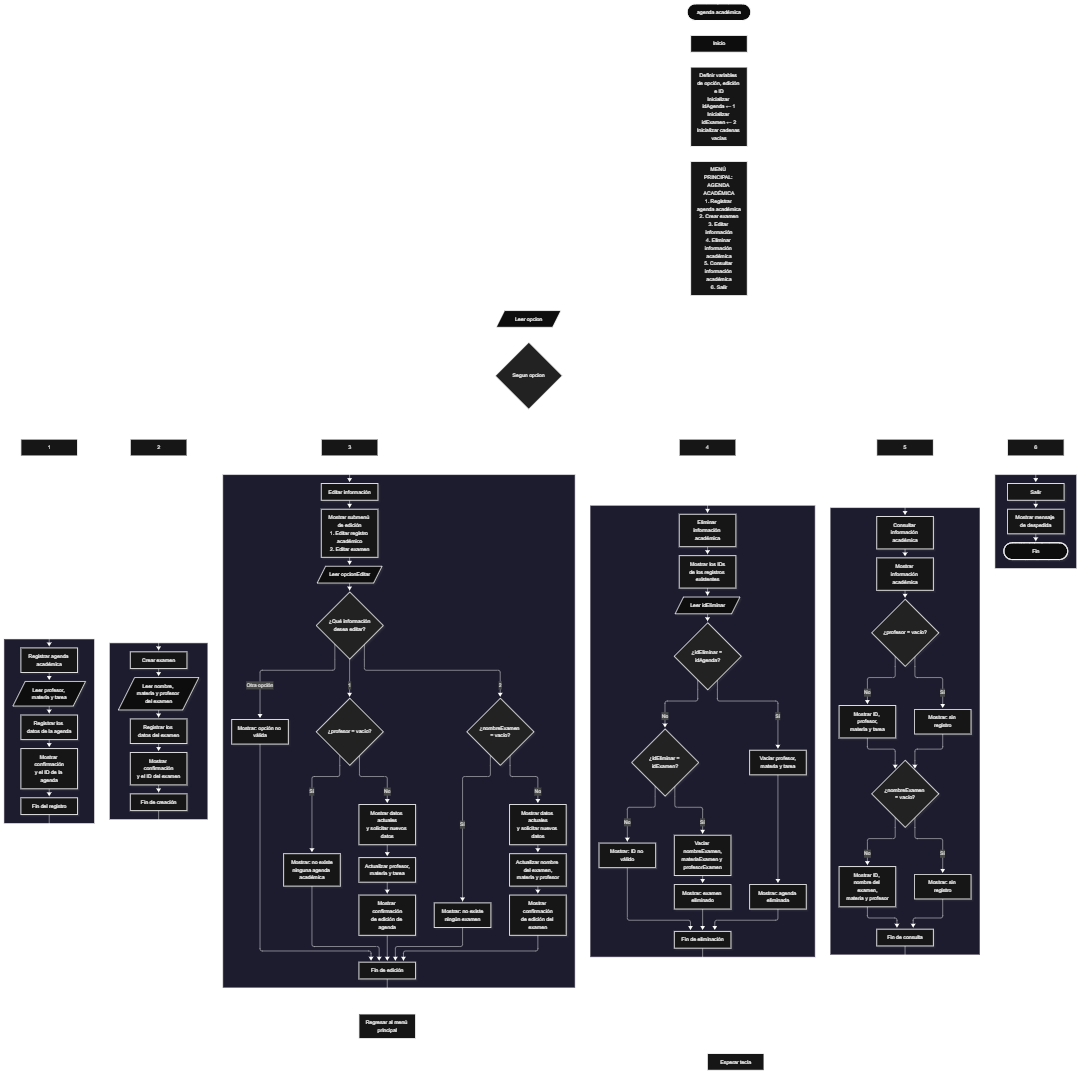
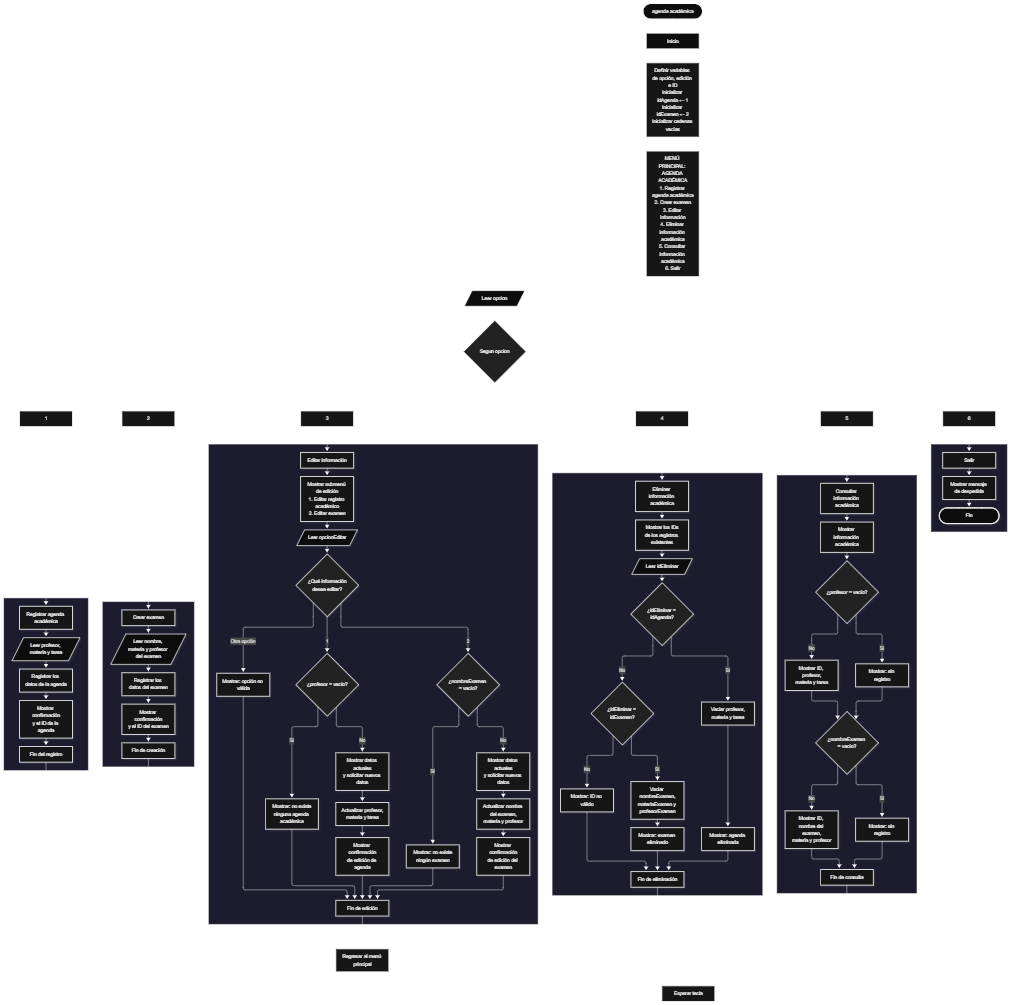
agregando_contenido_al_repositorio

diff --git a/README.md b/README.md
@@ -1,28 +1,28 @@
 <img width="100%" src="https://capsule-render.vercel.app/api?type=waving&color=0:007ACC,100:5DADE2&height=260&section=header&text=Agenda%20Academica&desc=Bienvenidos%20usuarios%20a%20mi%20proyecto&fontSize=43&fontColor=ffffff&descSize=18&fontAlignY=38&descAlignY=58&animation=fadeIn"/>
 
-<p align="justify">Este proyecto, llamado <b>agenda académica</b>, fue desarrollado en <b>PSeInt</b> como un ejercicio práctico para fortalecer la lógica de programación mediante la creación de un sistema de gestión académica desde la consola. El programa cuenta con un menú principal de seis opciones que permite <b>registrar una agenda académica, crear exámenes, editar información, eliminar registros, consultar información académica y salir del sistema</b>. La agenda académica almacena el nombre del profesor, la materia y la tarea, mientras que el examen guarda su nombre, la materia correspondiente y el profesor encargado. Cada tipo de registro utiliza un identificador fijo para distinguir la agenda académica del examen. Durante su desarrollo se aplicaron conceptos fundamentales de programación, como variables, cadenas de texto, estructuras condicionales, ciclos repetitivos y estructuras de selección. Este proyecto permite poner en práctica los conocimientos adquiridos en PSeInt y sirve como base para desarrollar sistemas de gestión académica más avanzados utilizando otros lenguajes y tecnologías.</p>
+<p align="justify">Este proyecto, llamado <b>agenda académica</b>, fue desarrollado en <b>pseint</b> como un ejercicio práctico para fortalecer la lógica de programación mediante la creación de un sistema de gestión académica desde la consola. El programa cuenta con un menú principal de seis opciones que permite <b>registrar una agenda académica, crear exámenes, editar información, eliminar registros, consultar información académica y salir del sistema</b>. La agenda académica almacena el nombre del profesor, la materia y la tarea, mientras que el examen guarda su nombre, la materia correspondiente y el profesor encargado. Cada tipo de registro utiliza un identificador fijo para distinguir la agenda académica del examen. Durante su desarrollo se aplicaron conceptos fundamentales de programación, como variables, cadenas de texto, estructuras condicionales, ciclos repetitivos y estructuras de selección. Este proyecto permite poner en práctica los conocimientos adquiridos en PSeInt y sirve como base para desarrollar sistemas de gestión académica más avanzados utilizando otros lenguajes y tecnologías.</p>
 
 <h2 align="center">⚙ Funcionamiento del menú principal</h2>
 
 ### ➕ Registrar agenda académica
 
-<p align="justify">La opción <b>1) registrar agenda académica</b> permite almacenar la información de una agenda académica dentro del programa. Para realizar el registro, el sistema solicita al usuario el <b>nombre del profesor, la materia y la tarea</b>. Los datos introducidos se guardan en las variables <b>profesor, materia y tarea</b>, respectivamente. Después de completar el proceso, el programa muestra el mensaje <b>"agenda academica registrada correctamente."</b> y presenta el identificador asignado mediante la variable <b>idAgenda</b>, cuyo valor inicial es <b>1</b>. En el código actual se utiliza un único conjunto de variables para almacenar la agenda académica, por lo que, si se realiza otro registro, la información anterior se sustituye por los nuevos datos. El programa no cuenta con una estructura que permita almacenar múltiples agendas de manera independiente.</p>
+<p align="justify">La opción <b>1) registrar agenda académica</b> permite almacenar la información de una agenda académica dentro del programa. Para realizar el registro, el sistema solicita al usuario el <b>nombre del profesor, la materia y la tarea</b>. Los datos introducidos se guardan en las variables <b>profesor, materia y tarea</b>, respectivamente. Después de completar el proceso, el programa muestra el mensaje <b>"agenda academica registrada correctamente."</b> y presenta el identificador asignado mediante la variable <b>idagenda</b>, cuyo valor inicial es <b>1</b>. En el código actual se utiliza un único conjunto de variables para almacenar la agenda académica, por lo que, si se realiza otro registro, la información anterior se sustituye por los nuevos datos. El programa no cuenta con una estructura que permita almacenar múltiples agendas de manera independiente.</p>
 
 ### 📝 Crear examen
 
-<p align="justify">La opción <b>2) crear examen</b> permite registrar la información de un examen académico. Primero, el programa solicita el <b>nombre del examen, la materia del examen y el profesor encargado</b>. Los datos se almacenan en las variables <b>nombreExamen, materiaExamen y profesorExamen</b>. Una vez introducida la información, el sistema muestra el mensaje <b>"examen registrado correctamente."</b> y presenta el identificador asignado mediante la variable <b>idExamen</b>, cuyo valor inicial es <b>2</b>. Al igual que sucede con la agenda académica, el programa utiliza un único conjunto de variables para guardar la información del examen. Por este motivo, cuando se crea otro examen, los datos almacenados anteriormente se reemplazan. El código actual no implementa arreglos ni un sistema de almacenamiento que permita administrar varios exámenes simultáneamente.</p>
+<p align="justify">La opción <b>2) crear examen</b> permite registrar la información de un examen académico. Primero, el programa solicita el <b>nombre del examen, la materia del examen y el profesor encargado</b>. Los datos se almacenan en las variables <b>nombreexamen, materiaexamen y profesorexamen</b>. Una vez introducida la información, el sistema muestra el mensaje <b>"examen registrado correctamente."</b> y presenta el identificador asignado mediante la variable <b>idexamen</b>, cuyo valor inicial es <b>2</b>. Al igual que sucede con la agenda académica, el programa utiliza un único conjunto de variables para guardar la información del examen. Por este motivo, cuando se crea otro examen, los datos almacenados anteriormente se reemplazan. El código actual no implementa arreglos ni un sistema de almacenamiento que permita administrar varios exámenes simultáneamente.</p>
 
 ### ✏ Editar información
 
-<p align="justify">La opción <b>3) editar información</b> permite modificar los datos almacenados en la agenda académica o en el examen. Al seleccionar esta opción, el programa presenta un submenú con dos alternativas: <b>1) editar registro académico</b> y <b>2) editar examen</b>. Si el usuario selecciona la primera opción, el sistema comprueba si la variable <b>profesor</b> está vacía. Cuando no existe información registrada, muestra el mensaje <b>"no existe ninguna agenda academica."</b>. Si existe una agenda, presenta los valores actuales del profesor, la materia y la tarea, y solicita los nuevos datos para actualizar las variables correspondientes. Si el usuario selecciona la segunda opción, el programa realiza una comprobación similar mediante la variable <b>nombreExamen</b>. Cuando no existe ningún examen, muestra el mensaje <b>"no existe ningun examen."</b>. En caso contrario, permite modificar el nombre del examen, la materia y el profesor. Al finalizar cualquiera de las dos operaciones, muestra un mensaje de confirmación. Si se introduce una opción diferente de las disponibles en el submenú, se presenta el mensaje <b>"opcion no valida."</b>.</p>
+<p align="justify">La opción <b>3) editar información</b> permite modificar los datos almacenados en la agenda académica o en el examen. Al seleccionar esta opción, el programa presenta un submenú con dos alternativas: <b>1) editar registro académico</b> y <b>2) editar examen</b>. Si el usuario selecciona la primera opción, el sistema comprueba si la variable <b>profesor</b> está vacía. Cuando no existe información registrada, muestra el mensaje <b>"no existe ninguna agenda academica."</b>. Si existe una agenda, presenta los valores actuales del profesor, la materia y la tarea, y solicita los nuevos datos para actualizar las variables correspondientes. Si el usuario selecciona la segunda opción, el programa realiza una comprobación similar mediante la variable <b>nombreexamen</b>. Cuando no existe ningún examen, muestra el mensaje <b>"no existe ningun examen."</b>. En caso contrario, permite modificar el nombre del examen, la materia y el profesor. Al finalizar cualquiera de las dos operaciones, muestra un mensaje de confirmación. Si se introduce una opción diferente de las disponibles en el submenú, se presenta el mensaje <b>"opcion no valida."</b>.</p>
 
 ### 🗑 Eliminar información académica
 
-<p align="justify">La opción <b>4) eliminar información académica</b> permite borrar la información almacenada de la agenda académica o del examen mediante su identificador. Primero, el programa comprueba si existen registros y muestra el ID de la agenda académica, correspondiente al valor <b>1</b>, cuando la variable <b>profesor</b> no está vacía. De manera similar, muestra el ID del examen, correspondiente al valor <b>2</b>, cuando la variable <b>nombreExamen</b> contiene información. Después, solicita al usuario el identificador que desea eliminar y almacena el valor introducido en la variable <b>idEliminar</b>. Si el identificador coincide con <b>idAgenda</b>, el programa asigna cadenas vacías a las variables <b>profesor, materia y tarea</b>, eliminando la información de la agenda. Si coincide con <b>idExamen</b>, limpia las variables <b>nombreExamen, materiaExamen y profesorExamen</b>. En ambos casos, muestra un mensaje de confirmación. Si el identificador no coincide con ninguno de los dos valores contemplados, presenta el mensaje <b>"id no valido."</b>. En el código actual, la eliminación se realiza limpiando las variables, sin modificar los identificadores asignados. Además, la comprobación del ID no verifica si el registro correspondiente existe antes de mostrar el mensaje de eliminación.</p>
+<p align="justify">La opción <b>4) eliminar información académica</b> permite borrar la información almacenada de la agenda académica o del examen mediante su identificador. Primero, el programa comprueba si existen registros y muestra el id de la agenda académica, correspondiente al valor <b>1</b>, cuando la variable <b>profesor</b> no está vacía. De manera similar, muestra el id del examen, correspondiente al valor <b>2</b>, cuando la variable <b>nombreexamen</b> contiene información. Después, solicita al usuario el identificador que desea eliminar y almacena el valor introducido en la variable <b>ideliminar</b>. Si el identificador coincide con <b>idagenda</b>, el programa asigna cadenas vacías a las variables <b>profesor, materia y tarea</b>, eliminando la información de la agenda. Si coincide con <b>idexamen</b>, limpia las variables <b>nombreexamen, materiaexamen y profesorexamen</b>. En ambos casos, muestra un mensaje de confirmación. Si el identificador no coincide con ninguno de los dos valores contemplados, presenta el mensaje <b>"id no valido."</b>. En el código actual, la eliminación se realiza limpiando las variables, sin modificar los identificadores asignados. Además, la comprobación del id no verifica si el registro correspondiente existe antes de mostrar el mensaje de eliminación.</p>
 
 ### 📋 Información académica
 
-<p align="justify">La opción <b>5) información académica</b> permite consultar los datos almacenados en el programa. Primero, muestra la sección correspondiente a la agenda académica y comprueba si la variable <b>profesor</b> está vacía. Si no existe un registro, presenta el mensaje <b>"sin registro."</b>. En caso contrario, muestra el identificador de la agenda, el nombre del profesor, la materia y la tarea. Después, el programa presenta la sección del examen y comprueba si la variable <b>nombreExamen</b> está vacía. Si no existe un examen registrado, muestra nuevamente el mensaje <b>"sin registro."</b>. Si existe información, presenta el identificador del examen, su nombre, la materia y el profesor correspondiente. Esta operación permite consultar los registros disponibles desde una misma opción del menú principal, sin necesidad de acceder por separado a cada tipo de información.</p>
+<p align="justify">La opción <b>5) información académica</b> permite consultar los datos almacenados en el programa. Primero, muestra la sección correspondiente a la agenda académica y comprueba si la variable <b>profesor</b> está vacía. Si no existe un registro, presenta el mensaje <b>"sin registro."</b>. En caso contrario, muestra el identificador de la agenda, el nombre del profesor, la materia y la tarea. Después, el programa presenta la sección del examen y comprueba si la variable <b>nombreexamen</b> está vacía. Si no existe un examen registrado, muestra nuevamente el mensaje <b>"sin registro."</b>. Si existe información, presenta el identificador del examen, su nombre, la materia y el profesor correspondiente. Esta operación permite consultar los registros disponibles desde una misma opción del menú principal, sin necesidad de acceder por separado a cada tipo de información.</p>
 
 ### 🚪 Salir del menú principal
 
@@ -36,13 +36,13 @@
 
 🔢 **Opcion:** Almacena el número de la opción seleccionada por el usuario en el menú principal.
 
-✏ **OpcionEditar:** Almacena la opción seleccionada en el submenú de edición de información.
+✏ **Opcioneditar:** Almacena la opción seleccionada en el submenú de edición de información.
 
-🆔 **IdAgenda:** Almacena el identificador de la agenda académica, cuyo valor inicial es 1.
+🆔 **Idagenda:** Almacena el identificador de la agenda académica, cuyo valor inicial es 1.
 
-📝 **IdExamen:** Almacena el identificador del examen, cuyo valor inicial es 2.
+📝 **Idexamen:** Almacena el identificador del examen, cuyo valor inicial es 2.
 
-🗑 **IdEliminar:** Almacena el identificador introducido por el usuario para seleccionar la información que desea eliminar.
+🗑 **Ideliminar:** Almacena el identificador introducido por el usuario para seleccionar la información que desea eliminar.
 
 👨🏫 **Profesor:** Almacena el nombre del profesor correspondiente a la agenda académica.
 
@@ -50,11 +50,11 @@
 
 📌 **Tarea:** Almacena la descripción de la tarea académica.
 
-📝 **NombreExamen:** Almacena el nombre del examen registrado.
+📝 **Nombreexamen:** Almacena el nombre del examen registrado.
 
-📚 **MateriaExamen:** Almacena el nombre de la materia correspondiente al examen.
+📚 **Materiaexamen:** Almacena el nombre de la materia correspondiente al examen.
 
-👨🏫 **ProfesorExamen:** Almacena el nombre del profesor encargado del examen.
+👨🏫 **Profesorexamen:** Almacena el nombre del profesor encargado del examen.
 
 ### 🔀 Estructuras condicionales
 
@@ -66,19 +66,19 @@
 
 ### 🎯 Estructura segun
 
-<p align="justify">La estructura <b>segun</b> se utiliza para evaluar el valor almacenado en la variable <b>opcion</b> y ejecutar el bloque de instrucciones correspondiente a la selección del usuario. El menú principal contiene seis casos, desde el número <b>1</b> hasta el número <b>6</b>, asociados al registro de la agenda académica, la creación de exámenes, la edición de información, la eliminación de registros, la consulta de información y la salida del programa. Además, se utiliza una segunda estructura <b>segun</b>, controlada por la variable <b>opcionEditar</b>, para distinguir entre la edición de la agenda académica y la edición del examen. Ambas estructuras incluyen la alternativa <b>de otro modo</b>, que permite mostrar un mensaje cuando el usuario introduce una opción no válida.</p>
+<p align="justify">La estructura <b>segun</b> se utiliza para evaluar el valor almacenado en la variable <b>opcion</b> y ejecutar el bloque de instrucciones correspondiente a la selección del usuario. El menú principal contiene seis casos, desde el número <b>1</b> hasta el número <b>6</b>, asociados al registro de la agenda académica, la creación de exámenes, la edición de información, la eliminación de registros, la consulta de información y la salida del programa. Además, se utiliza una segunda estructura <b>segun</b>, controlada por la variable <b>opcioneditar</b>, para distinguir entre la edición de la agenda académica y la edición del examen. Ambas estructuras incluyen la alternativa <b>de otro modo</b>, que permite mostrar un mensaje cuando el usuario introduce una opción no válida.</p>
 
 ### 🔢 Identificadores de los registros
 
-<p align="justify">El programa utiliza dos variables enteras para identificar los tipos de información que se administran. La variable <b>idAgenda</b> contiene el valor <b>1</b>, que identifica la agenda académica, mientras que <b>idExamen</b> contiene el valor <b>2</b>, que identifica el examen. Estos identificadores se muestran al registrar la información y durante el proceso de eliminación, cuando el registro correspondiente contiene datos. Posteriormente, el usuario puede introducir uno de estos valores para seleccionar qué información desea eliminar. En el código actual, los identificadores se inicializan una sola vez al comienzo del programa y no cambian durante su ejecución. Por lo tanto, no se generan identificadores nuevos para cada registro ni se mantiene un historial de los elementos eliminados.</p>
+<p align="justify">El programa utiliza dos variables enteras para identificar los tipos de información que se administran. La variable <b>idagenda</b> contiene el valor <b>1</b>, que identifica la agenda académica, mientras que <b>idexamen</b> contiene el valor <b>2</b>, que identifica el examen. Estos identificadores se muestran al registrar la información y durante el proceso de eliminación, cuando el registro correspondiente contiene datos. Posteriormente, el usuario puede introducir uno de estos valores para seleccionar qué información desea eliminar. En el código actual, los identificadores se inicializan una sola vez al comienzo del programa y no cambian durante su ejecución. Por lo tanto, no se generan identificadores nuevos para cada registro ni se mantiene un historial de los elementos eliminados.</p>
 
 ### 🔤 Cadenas de texto
 
 <p align="justify">Las variables de tipo <b>cadena</b> se utilizan para almacenar la información descriptiva de la agenda académica y del examen. Al inicio del programa, estas variables se inicializan con una cadena vacía, representada por <b>""</b>. Posteriormente, reciben los valores introducidos por el usuario durante las operaciones de registro o edición. Las mismas variables se utilizan para mostrar los datos en la consulta de información académica. Durante la eliminación, se vuelven a asignar cadenas vacías para indicar que ya no existe información almacenada en las variables correspondientes. Esta técnica permite distinguir entre un registro con información y uno que ha sido eliminado durante la ejecución.</p>
 
-<h2 align="center">¿Cómo se implementaron las operaciones CRUD en el proyecto?</h2>
+<h2 align="center">¿Cómo se implementaron las operaciones crud en el proyecto?</h2>
 
-<p align="justify">Las operaciones <b>CRUD</b> se implementaron mediante las opciones del menú principal, permitiendo administrar la información de la agenda académica y del examen. La operación <b>crear</b> corresponde a las opciones <b>registrar agenda académica</b> y <b>crear examen</b>, donde el usuario introduce los datos que desea almacenar. La operación <b>leer</b> se realiza mediante la opción <b>información académica</b>, que permite consultar los datos de ambos tipos de registro. La operación <b>actualizar</b> corresponde a <b>editar información</b>, donde se modifican los campos de la agenda académica o del examen. Finalmente, la operación <b>eliminar</b> se realiza mediante <b>eliminar información académica</b>, que limpia las variables asociadas al registro seleccionado. Estas operaciones utilizan variables, estructuras condicionales y estructuras de selección para administrar la información almacenada temporalmente durante la ejecución del programa.</p>
+<p align="justify">Las operaciones <b>crud</b> se implementaron mediante las opciones del menú principal, permitiendo administrar la información de la agenda académica y del examen. La operación <b>crear</b> corresponde a las opciones <b>registrar agenda académica</b> y <b>crear examen</b>, donde el usuario introduce los datos que desea almacenar. La operación <b>leer</b> se realiza mediante la opción <b>información académica</b>, que permite consultar los datos de ambos tipos de registro. La operación <b>actualizar</b> corresponde a <b>editar información</b>, donde se modifican los campos de la agenda académica o del examen. Finalmente, la operación <b>eliminar</b> se realiza mediante <b>eliminar información académica</b>, que limpia las variables asociadas al registro seleccionado. Estas operaciones utilizan variables, estructuras condicionales y estructuras de selección para administrar la información almacenada temporalmente durante la ejecución del programa.</p>
 
 <h2 align="center">Diagrama de flujo del proyecto</h2>
 
@@ -92,19 +92,19 @@
 
 ### 📭 No existe un examen
 
-<p align="justify">Esta validación se utiliza cuando el usuario selecciona la opción de editar un examen. El programa comprueba si la variable <b>nombreExamen</b> está vacía. Si no existe información almacenada, presenta el mensaje <b>"no existe ningun examen."</b> y no ejecuta el proceso de edición. Si la variable contiene información, el programa muestra los valores actuales y solicita los nuevos datos del examen. De esta manera, se comprueba la existencia de información antes de modificar sus campos.</p>
+<p align="justify">Esta validación se utiliza cuando el usuario selecciona la opción de editar un examen. El programa comprueba si la variable <b>nombreexamen</b> está vacía. Si no existe información almacenada, presenta el mensaje <b>"no existe ningun examen."</b> y no ejecuta el proceso de edición. Si la variable contiene información, el programa muestra los valores actuales y solicita los nuevos datos del examen. De esta manera, se comprueba la existencia de información antes de modificar sus campos.</p>
 
 ### ❌ Identificador no válido
 
-<p align="justify">Esta validación se utiliza durante la eliminación de información académica. El programa compara el valor introducido en la variable <b>idEliminar</b> con los identificadores <b>idAgenda</b> e <b>idExamen</b>. Si coincide con el identificador de la agenda, limpia las variables correspondientes a ese registro. Si coincide con el identificador del examen, limpia las variables asociadas al examen. Cuando el valor introducido no coincide con ninguno de los dos identificadores, muestra el mensaje <b>"id no valido."</b>. Sin embargo, el código actual no comprueba si el registro existe antes de realizar la eliminación. Por este motivo, si el usuario introduce el ID de un registro que ya fue eliminado, el programa puede mostrar un mensaje de confirmación aunque las variables ya estén vacías.</p>
+<p align="justify">Esta validación se utiliza durante la eliminación de información académica. El programa compara el valor introducido en la variable <b>ideliminar</b> con los identificadores <b>idagenda</b> e <b>idexamen</b>. Si coincide con el identificador de la agenda, limpia las variables correspondientes a ese registro. Si coincide con el identificador del examen, limpia las variables asociadas al examen. Cuando el valor introducido no coincide con ninguno de los dos identificadores, muestra el mensaje <b>"id no valido."</b>. Sin embargo, el código actual no comprueba si el registro existe antes de realizar la eliminación. Por este motivo, si el usuario introduce el id de un registro que ya fue eliminado, el programa puede mostrar un mensaje de confirmación aunque las variables ya estén vacías.</p>
 
 ### ⚠ Sobrescritura de información
 
-<p align="justify">El programa utiliza un conjunto de variables para almacenar la agenda académica y otro conjunto para almacenar el examen. Por esta razón, cuando el usuario registra una nueva agenda académica, los valores anteriores de <b>profesor, materia y tarea</b> son reemplazados. Del mismo modo, al crear otro examen, los datos anteriores almacenados en <b>nombreExamen, materiaExamen y profesorExamen</b> se sustituyen por los nuevos valores. El código actual no incluye comprobaciones que impidan sobrescribir registros existentes ni utiliza arreglos para conservar múltiples registros independientes. Esta es una limitación de la implementación actual y puede considerarse una mejora para futuras versiones del proyecto.</p>
+<p align="justify">El programa utiliza un conjunto de variables para almacenar la agenda académica y otro conjunto para almacenar el examen. Por esta razón, cuando el usuario registra una nueva agenda académica, los valores anteriores de <b>profesor, materia y tarea</b> son reemplazados. Del mismo modo, al crear otro examen, los datos anteriores almacenados en <b>nombreexamen, materiaexamen y profesorexamen</b> se sustituyen por los nuevos valores. El código actual no incluye comprobaciones que impidan sobrescribir registros existentes ni utiliza arreglos para conservar múltiples registros independientes. Esta es una limitación de la implementación actual y puede considerarse una mejora para futuras versiones del proyecto.</p>
 
 ### 🔢 Identificadores fijos
 
-<p align="justify">Los identificadores se definen al comienzo del programa mediante las asignaciones <b>idAgenda &lt;- 1</b> e <b>idExamen &lt;- 2</b>. Estos valores permiten distinguir la agenda académica del examen durante las operaciones de consulta y eliminación. Sin embargo, los identificadores no se generan automáticamente ni aumentan después de registrar información. Si un registro se elimina y posteriormente se crea de nuevo, vuelve a utilizarse el mismo identificador correspondiente a su tipo. El código actual no implementa un contador independiente para generar identificadores únicos para cada registro ni permite administrar varios registros del mismo tipo.</p>
+<p align="justify">Los identificadores se definen al comienzo del programa mediante las asignaciones <b>idagenda &lt;- 1</b> e <b>idexamen &lt;- 2</b>. Estos valores permiten distinguir la agenda académica del examen durante las operaciones de consulta y eliminación. Sin embargo, los identificadores no se generan automáticamente ni aumentan después de registrar información. Si un registro se elimina y posteriormente se crea de nuevo, vuelve a utilizarse el mismo identificador correspondiente a su tipo. El código actual no implementa un contador independiente para generar identificadores únicos para cada registro ni permite administrar varios registros del mismo tipo.</p>
 
 ### ⚠ Opción inválida
 
@@ -112,6 +112,6 @@
 
 <h2 align="center">🎯 Objetivo del proyecto</h2>
 
-<p align="justify">El objetivo principal de este proyecto es fortalecer la <b>lógica de programación</b> mediante el desarrollo de un sistema de gestión académica en <b>PSeInt</b>. A través de su construcción se busca aplicar los conocimientos adquiridos sobre variables, cadenas de texto, estructuras condicionales, ciclos repetitivos y estructuras de selección, integrándolos para resolver un problema de manera organizada. Además, el proyecto permite comprender cómo registrar, consultar, modificar y eliminar información mediante operaciones CRUD dentro de una aplicación de consola. La agenda académica constituye una base para futuras mejoras, como la incorporación de múltiples registros, la generación dinámica de identificadores y el almacenamiento permanente de la información utilizando archivos u otras tecnologías.</p>
+<p align="justify">El objetivo principal de este proyecto es fortalecer la <b>lógica de programación</b> mediante el desarrollo de un sistema de gestión académica en <b>pseint</b>. A través de su construcción se busca aplicar los conocimientos adquiridos sobre variables, cadenas de texto, estructuras condicionales, ciclos repetitivos y estructuras de selección, integrándolos para resolver un problema de manera organizada. Además, el proyecto permite comprender cómo registrar, consultar, modificar y eliminar información mediante operaciones crud dentro de una aplicación de consola. La agenda académica constituye una base para futuras mejoras, como la incorporación de múltiples registros, la generación dinámica de identificadores y el almacenamiento permanente de la información utilizando archivos u otras tecnologías.</p>
 
 <img width="100%" src="https://capsule-render.vercel.app/api?type=waving&color=0:007ACC,100:5DADE2&height=110&section=footer&text=%C2%A9%202026%20%7C%20L%C3%B3gica%20de%20programaci%C3%B3n%20hecha%20en%20PSeInt%20%7C%20Agenda%20Acad%C3%A9mica&fontSize=14&fontColor=FFFFFF&fontAlignY=87.5"/>
